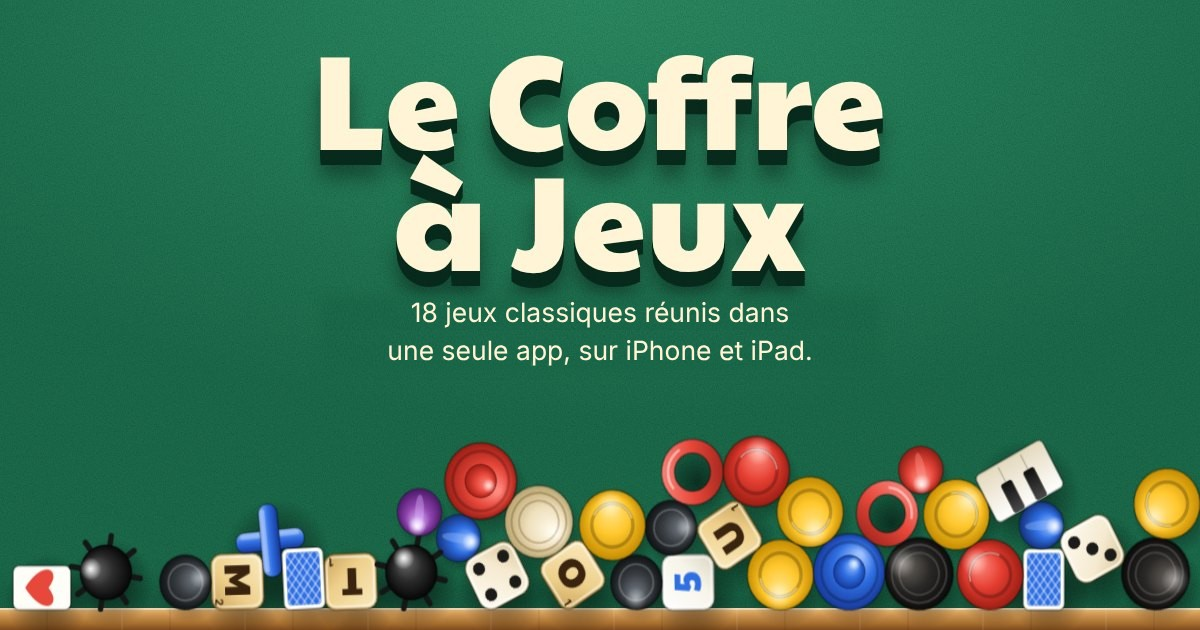
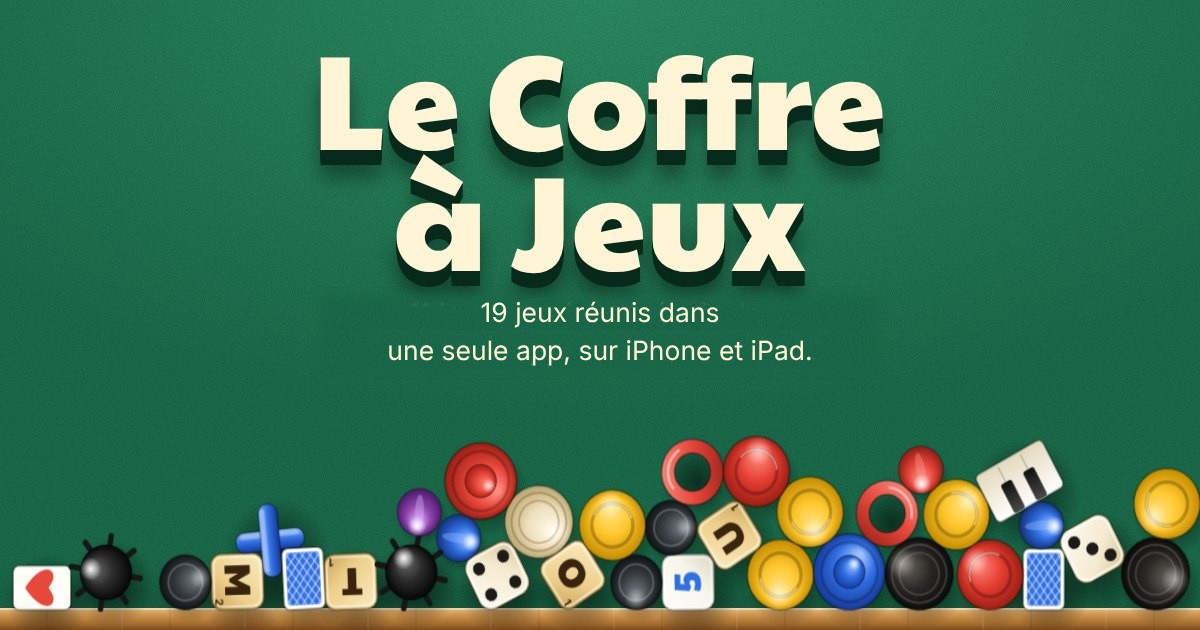
Ajoute la Borne d'arcade (Astro Néon) jouable et passe à 19 jeux
Claude-Session: https://claude.ai/code/session_01Tpkp3Sa1TWn4viTejghLJ5

Changed region(s): [[0.3392, 0.4825, 0.6783, 0.5127]]

diff --git a/js/toys.js b/js/toys.js
@@ -866,6 +866,100 @@
     f.size(); reset();
   }
 
+  /* ---------- Borne d'arcade (« Astro Néon », comme dans l'app) ---------- */
+  function arcade() {
+    var st = stage('arcade'); if (!st) return;
+    var btn = el('button', 'tap'), cv = el('canvas'), say_ = chipper(st), ctx = cv.getContext('2d');
+    btn.type = 'button'; btn.setAttribute('aria-label', 'Borne d’arcade Astro Néon : touche pour jouer, glisse ou utilise les flèches pour déplacer le vaisseau');
+    cv.setAttribute('aria-hidden', 'true'); btn.appendChild(cv); st.appendChild(btn);
+    var box = st.getBoundingClientRect(), LW = box.width > box.height ? 330 : 200, f = fit(cv, LW, draw), CY = '#4df2ff', MA = '#ff4dbf', OR = '#ff9a3d', GR = '#c8c8d2';
+    var KIND = { drone: { c: MA, hp: 1, r: 9, pts: 100 }, chaser: { c: OR, hp: 1, r: 8.5, pts: 150 }, rock: { c: GR, hp: 3, r: 12, pts: 60 } };
+    var stars = [], ship, shots, foes, sparks, score, best = 0, lives, state = 'wait', t0, fire, next, hurt, keys = 0, visible = true, running = false, last = 0, timer, i;
+    for (i = 0; i < 26; i++) stars.push({ x: Math.random() * LW, y: Math.random(), v: .03 + Math.random() * .09, a: .25 + Math.random() * .6 });
+    function shipY() { return f.LH - 46; }
+    function reset() { ship = LW / 2; shots = []; foes = []; sparks = []; score = 0; lives = 3; t0 = 0; fire = 0; next = .6; hurt = 0; state = 'wait'; say_('Insère une pièce'); draw(); }
+    function spawn() {
+      var r = Math.random(), k = t0 > 12 && r < .22 ? 'rock' : (t0 > 5 && r < .5 ? 'chaser' : 'drone'), K = KIND[k];
+      foes.push({ k: k, x: 16 + Math.random() * (LW - 32), y: -14, hp: K.hp, ph: Math.random() * 6.28, x0: 0, hit: 0 });
+      foes[foes.length - 1].x0 = foes[foes.length - 1].x;
+    }
+    function boom(x, y, c, n) { for (var j = 0; j < n; j++) { var a = Math.random() * 6.28, v = 30 + Math.random() * 90; sparks.push({ x: x, y: y, vx: Math.cos(a) * v, vy: Math.sin(a) * v, t: .45, c: c }); } }
+    function over() {
+      state = 'over'; best = Math.max(best, score); boom(ship, shipY(), CY, 22);
+      say_('Fini ! ' + score + ' points'); say('Borne d’arcade : partie finie avec ' + score + ' points.');
+      clearTimeout(timer); timer = setTimeout(reset, 3000);
+    }
+    function glow(c, b) { ctx.strokeStyle = c; ctx.shadowColor = c; ctx.shadowBlur = b * f.k; }
+    function draw() {
+      if (!stars.length || ship == null) return;
+      var H = f.LH, Y = shipY(), j, e, K, g;
+      ctx.setTransform(f.k, 0, 0, f.k, 0, 0); ctx.clearRect(0, 0, LW, H);
+      g = ctx.createLinearGradient(0, 0, 0, H); g.addColorStop(0, '#0a0624'); g.addColorStop(1, '#010006'); ctx.fillStyle = g; ctx.fillRect(0, 0, LW, H);
+      for (j = 0; j < stars.length; j++) { e = stars[j]; ctx.fillStyle = 'rgba(255,255,255,' + e.a + ')'; ctx.fillRect(e.x, e.y * H, 1.3, 1.3); }
+      ctx.lineWidth = 1.8; ctx.lineJoin = 'round';
+      glow(CY, 5); ctx.fillStyle = CY; for (j = 0; j < shots.length; j++) ctx.fillRect(shots[j].x - 1, shots[j].y - 6, 2, 9);
+      for (j = 0; j < foes.length; j++) {
+        e = foes[j]; K = KIND[e.k]; glow(e.hit > 0 ? '#fff' : K.c, 6); ctx.beginPath();
+        if (e.k === 'rock') { for (var a = 0; a < 7; a++) { var rr = K.r * (a % 2 ? .78 : 1), an = a / 7 * 6.2832 + e.ph; ctx[a ? 'lineTo' : 'moveTo'](e.x + Math.cos(an) * rr, e.y + Math.sin(an) * rr); } }
+        else if (e.k === 'chaser') { ctx.moveTo(e.x, e.y + K.r); ctx.lineTo(e.x - K.r * .8, e.y - K.r * .8); ctx.lineTo(e.x, e.y - K.r * .3); ctx.lineTo(e.x + K.r * .8, e.y - K.r * .8); }
+        else { ctx.moveTo(e.x, e.y - K.r); ctx.lineTo(e.x + K.r, e.y); ctx.lineTo(e.x, e.y + K.r); ctx.lineTo(e.x - K.r, e.y); }
+        ctx.closePath(); ctx.stroke();
+      }
+      for (j = 0; j < sparks.length; j++) { e = sparks[j]; ctx.globalAlpha = Math.max(0, e.t / .45); glow(e.c, 4); ctx.fillStyle = e.c; ctx.fillRect(e.x - 1, e.y - 1, 2, 2); }
+      ctx.globalAlpha = 1;
+      if (state !== 'over' && (hurt <= 0 || Math.floor(hurt * 12) % 2)) {
+        glow(CY, 8); ctx.beginPath(); ctx.moveTo(ship, Y - 11); ctx.lineTo(ship + 9, Y + 8); ctx.lineTo(ship, Y + 3); ctx.lineTo(ship - 9, Y + 8); ctx.closePath(); ctx.stroke();
+      }
+      ctx.shadowBlur = 0; ctx.textAlign = 'left'; ctx.font = '700 11px ui-monospace, Menlo, Consolas, monospace';
+      ctx.fillStyle = CY; ctx.fillText(String(score), 10, 18);
+      ctx.textAlign = 'right'; ctx.fillStyle = MA; ctx.fillText(lives > 0 ? new Array(lives + 1).join('♥') : '', LW - 10, 18);
+      if (best && state === 'wait') { ctx.textAlign = 'center'; ctx.fillStyle = 'rgba(255,255,255,.7)'; ctx.fillText('RECORD ' + best, LW / 2, H * .42); }
+    }
+    function tick(t) {
+      var dt = Math.min(.04, (t - last) / 1000 || 0), H = f.LH, Y = shipY(), j, n, e, s, K; last = t;
+      for (j = 0; j < stars.length; j++) { e = stars[j]; e.y += e.v * dt * (state === 'play' ? 3 : 1); if (e.y > 1) { e.y = 0; e.x = Math.random() * LW; } }
+      if (state === 'play') {
+        t0 += dt; hurt -= dt; ship = clamp(ship + keys * 150 * dt, 10, LW - 10);
+        fire -= dt; if (fire <= 0) { fire = .2; shots.push({ x: ship, y: Y - 12 }); }
+        next -= dt; if (next <= 0) { next = Math.max(.28, .95 - t0 * .014); spawn(); }
+        for (j = shots.length - 1; j >= 0; j--) { shots[j].y -= 330 * dt; if (shots[j].y < -10) shots.splice(j, 1); }
+        for (j = foes.length - 1; j >= 0; j--) {
+          e = foes[j]; K = KIND[e.k]; e.hit -= dt; e.ph += dt * (e.k === 'rock' ? 1.2 : 3.2);
+          e.y += (e.k === 'rock' ? 46 : e.k === 'chaser' ? 78 : 58) * (1 + t0 * .008) * dt;
+          if (e.k === 'drone') e.x = clamp(e.x0 + Math.sin(e.ph) * 26, K.r, LW - K.r);
+          if (e.k === 'chaser') e.x += clamp(ship - e.x, -1, 1) * 46 * dt;
+          for (n = shots.length - 1; n >= 0; n--) {
+            s = shots[n];
+            if (Math.abs(s.x - e.x) < K.r && Math.abs(s.y - e.y) < K.r + 4) { shots.splice(n, 1); e.hp--; e.hit = .08; if (e.hp <= 0) break; }
+          }
+          if (e.hp <= 0) { score += K.pts; boom(e.x, e.y, K.c, 10); foes.splice(j, 1); continue; }
+          if (hurt <= 0 && Math.abs(e.x - ship) < K.r + 4 && Math.abs(e.y - Y) < K.r + 6) {
+            boom(e.x, e.y, K.c, 10); foes.splice(j, 1); lives--; hurt = 1.4;
+            if (lives <= 0) { over(); break; }
+            say_('Touché !', 800); continue;
+          }
+          if (e.y > H + 20) foes.splice(j, 1);
+        }
+      }
+      for (j = sparks.length - 1; j >= 0; j--) { e = sparks[j]; e.t -= dt; e.x += e.vx * dt; e.y += e.vy * dt; if (e.t <= 0) sparks.splice(j, 1); }
+      draw();
+      if (visible && (state === 'play' || sparks.length)) requestAnimationFrame(tick); else running = false;
+    }
+    function wake() { if (!running && visible) { running = true; last = performance.now(); requestAnimationFrame(tick); } }
+    function start() { if (state === 'wait') { state = 'play'; say_(''); wake(); } }
+    function aim(e) { var b = cv.getBoundingClientRect(); if (b.width) ship = clamp((e.clientX - b.left) / b.width * LW, 10, LW - 10); }
+    btn.addEventListener('click', start);
+    btn.addEventListener('pointerdown', function (e) { if (state === 'play') aim(e); });
+    btn.addEventListener('pointermove', function (e) { if (state === 'play' && (e.pointerType === 'mouse' || e.buttons || e.pressure > 0)) aim(e); });
+    btn.addEventListener('keydown', function (e) {
+      if (e.key === 'ArrowLeft') { keys = -1; e.preventDefault(); } else if (e.key === 'ArrowRight') { keys = 1; e.preventDefault(); }
+    });
+    btn.addEventListener('keyup', function (e) { if (e.key === 'ArrowLeft' || e.key === 'ArrowRight') keys = 0; });
+    btn.addEventListener('blur', function () { keys = 0; });
+    seen(st, function (v) { visible = v; if (v) { f.size(); wake(); } });
+    f.size(); reset();
+  }
+
   /* ---------- Flipper (table « Nébuleuse », comme dans l'app) ---------- */
   function flipper() {
     var st = stage('flipper'); if (!st) return;
@@ -1647,5 +1741,5 @@
     f.size(); say_('Touche pour lancer'); draw();
   }
 
-  [piano, yams, ttt, solitaire, c4, paires, dames, sudoku, mot, hockey, billes, flipper, tour, billard, echecs, bowling, flechettes, mines].forEach(function (f) { try { f(); } catch (e) { if (window.console) console.error(e); } });
+  [piano, yams, ttt, solitaire, c4, paires, dames, sudoku, mot, hockey, billes, flipper, tour, billard, echecs, bowling, flechettes, arcade, mines].forEach(function (f) { try { f(); } catch (e) { if (window.console) console.error(e); } });
 })();

diff --git a/index.html b/index.html
@@ -4,11 +4,11 @@
     <meta charset="utf-8">
     <meta name="viewport" content="width=device-width, initial-scale=1, viewport-fit=cover">
     <title>Le Coffre à Jeux</title>
-    <meta name="description" content="Le Coffre à Jeux : 18 jeux classiques sur iPhone et iPad, dont les échecs, le bowling et les fléchettes.">
+    <meta name="description" content="Le Coffre à Jeux : 19 jeux sur iPhone et iPad, dont les échecs, le bowling, les fléchettes et une borne d’arcade.">
     <meta name="theme-color" content="#1b6b4b">
     <meta property="og:type" content="website">
     <meta property="og:title" content="Le Coffre à Jeux">
-    <meta property="og:description" content="18 jeux classiques réunis dans une seule app, sur iPhone et iPad.">
+    <meta property="og:description" content="19 jeux réunis dans une seule app, sur iPhone et iPad.">
     <meta property="og:image" content="https://christopherjacquescj.github.io/og.jpg">
     <meta property="og:image:width" content="1200">
     <meta property="og:image:height" content="630">
@@ -16,7 +16,7 @@
     <link rel="icon" href="favicon.svg" type="image/svg+xml">
     <link rel="apple-touch-icon" href="apple-touch-icon.png">
     <link rel="preload" href="fonts/paytone-one-latin-400-normal.woff2" as="font" type="font/woff2" crossorigin>
-    <link rel="stylesheet" href="style.css?v=9">
+    <link rel="stylesheet" href="style.css?v=10">
 </head>
 <body class="home">
     <header class="top">
@@ -27,7 +27,7 @@
         <section class="hero" aria-labelledby="titre">
             <div class="hero-copy">
                 <h1 id="titre">Le Coffre<br>à Jeux</h1>
-                <p class="lede">18 jeux classiques réunis dans une seule app, sur iPhone et iPad.</p>
+                <p class="lede">19 jeux réunis dans une seule app, sur iPhone et iPad.</p>
                 <p class="actions">
                     <a class="btn" href="#jeux">Essayer les jeux</a>
                     <button class="shake" type="button">Secouer le coffre</button>
@@ -43,7 +43,7 @@
 
         <div class="inside">
             <section class="chest" id="jeux" aria-labelledby="t-jeux">
-                <h2 id="t-jeux">18 jeux dans un seul coffre</h2>
+                <h2 id="t-jeux">19 jeux dans un seul coffre</h2>
                 <p class="sub">Touche les jouets pour essayer. Le vrai jeu est dans l’app.</p>
                 <div class="toys-wrap">
                     <div class="toys">
@@ -69,6 +69,7 @@
                         <article class="toy bowling tall" aria-labelledby="n-bowling"><h3 class="name" id="n-bowling">Bowling</h3><div class="stage" data-toy="bowling"></div></article>
                         <article class="toy flechettes tall" aria-labelledby="n-flechettes"><h3 class="name" id="n-flechettes">Fléchettes</h3><div class="stage" data-toy="flechettes"></div></article>
 
+                        <article class="toy arcade tall" aria-labelledby="n-arcade"><h3 class="name" id="n-arcade">Borne d’arcade</h3><div class="stage" data-toy="arcade"></div></article>
                         <article class="toy mines" aria-labelledby="n-mines"><h3 class="name" id="n-mines">Démineur</h3><div class="stage" data-toy="mines"></div></article>
                         <article class="toy get" aria-labelledby="n-get">
                             <div class="stage">
@@ -116,6 +117,6 @@
     <p id="live" class="sr" aria-live="polite"></p>
     <script src="vendor/matter.min.js" defer></script>
     <script src="js/scene.js?v=1" defer></script>
-    <script src="js/toys.js?v=6" defer></script>
+    <script src="js/toys.js?v=7" defer></script>
 </body>
 </html>

diff --git a/style.css b/style.css
@@ -382,7 +382,7 @@ button { font: inherit; color: inherit; }
 
 /* ---------- Flipper ---------- */
 .toy.flipper { --bg: #5a3418; --on: #fff4d6; background: linear-gradient(90deg, #4f2c13, #7c4a23 50%, #4a2811); }
-.flipper .name, .bowling .name { padding: .45em .85em; border-radius: 999px; background: #0d0a26; color: #fff4d6; left: calc(var(--cell) * .05); bottom: calc(var(--cell) * .045); box-shadow: 0 3px 0 rgba(0, 0, 0, .3); }
+.flipper .name, .bowling .name, .arcade .name { padding: .45em .85em; border-radius: 999px; background: #0d0a26; color: #fff4d6; left: calc(var(--cell) * .05); bottom: calc(var(--cell) * .045); box-shadow: 0 3px 0 rgba(0, 0, 0, .3); }
 .flipper .chip { font-size: calc(var(--u) * .06); white-space: nowrap; }
 .flipper canvas { position: absolute; inset: 0; width: 100%; height: 100%; }
 .flipper .flip { position: absolute; bottom: 0; width: 50%; height: 46%; margin: 0; padding: 0; border: 0; background: none; cursor: pointer; touch-action: none; -webkit-user-select: none; user-select: none; -webkit-touch-callout: none; }
@@ -391,9 +391,9 @@ button { font: inherit; color: inherit; }
 
 /* ---------- Tour de blocs ---------- */
 .toy.tour { --bg: #2a2f6e; --on: #fff4d6; background: linear-gradient(#1c2260, #45358a 55%, #b0577e); }
-.tour .tap, .flechettes .tap { position: absolute; inset: 0; width: 100%; height: 100%; margin: 0; padding: 0; border: 0; background: none; cursor: pointer; touch-action: manipulation; }
-.tour .tap:focus-visible, .flechettes .tap:focus-visible { outline-offset: -6px; border-radius: calc(var(--u) * .1); }
-.tour canvas, .flechettes canvas { width: 100%; height: 100%; }
+.tour .tap, .flechettes .tap, .arcade .tap { position: absolute; inset: 0; width: 100%; height: 100%; margin: 0; padding: 0; border: 0; background: none; cursor: pointer; touch-action: manipulation; }
+.tour .tap:focus-visible, .flechettes .tap:focus-visible, .arcade .tap:focus-visible { outline-offset: -6px; border-radius: calc(var(--u) * .1); }
+.tour canvas, .flechettes canvas, .arcade canvas { width: 100%; height: 100%; }
 
 /* ---------- Billard ---------- */
 .toy.billard { --bg: #3b2414; --on: #fff4d6; background: var(--grain), linear-gradient(#4a2e1a, #2a180c); }
@@ -423,12 +423,14 @@ button { font: inherit; color: inherit; }
 .bowling .zone:focus-visible { outline-offset: -6px; border-radius: calc(var(--u) * .08); }
 
 /* ---------- Fléchettes ---------- */
+.toy.arcade { --bg: #150a36; --on: #eafcff; background: linear-gradient(#290d5c, #050314); }
+.arcade .tap { touch-action: pan-y; }
 .toy.flechettes { --bg: #4a1f22; --on: #fff4d6; background: var(--grain), linear-gradient(#63292c, #2e1317); }
 
 /* ---------- la vignette « Sur iPhone et iPad » ---------- */
 .toy.get .stage { display: grid; place-items: center; padding-bottom: 10%; }
 .toy.get svg { height: 82%; width: auto; aspect-ratio: 4 / 3; max-width: 100%; }
-@media (min-width: 760px) { .toy.get { grid-column: span 3; } }
+@media (min-width: 760px) { .toy.arcade { grid-column: span 3; } }
 
 /* ---------- gratuit ---------- */
 .free { max-width: 1120px; margin: clamp(64px, 10vw, 120px) auto 0; display: grid; gap: 22px 56px; align-items: center; grid-template-columns: minmax(0, 1fr); }
